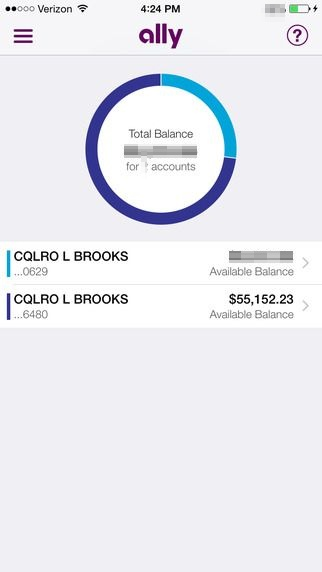
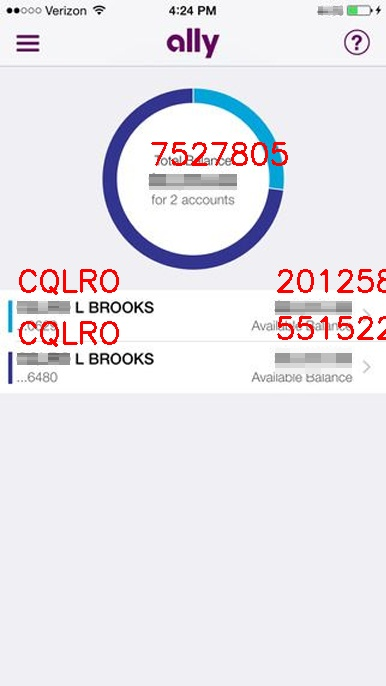
with image processing

diff --git a/detect_faces.py b/detect_faces.py
@@ -651,8 +651,33 @@ for img in range(len(images)):
 
 	# 		image[startY:endY, startX:endX] = face
 
-	rgb = cv2.cvtColor(image, cv2.COLOR_BGR2RGB)
-	results = pytesseract.image_to_data(rgb, output_type=Output.DICT)
+	image = cv2.resize(image, None, fx=1.2, fy=1.2,interpolation=cv2.INTER_CUBIC )
+	kernel = np.ones((1, 1), np.uint8)
+	image = cv2.dilate(image, kernel, iterations=1)
+	image = cv2.erode(image, kernel, iterations=1)
+	# gray = cv2.cvtColor(image, cv2.COLOR_BGR2RGB)
+	gray = cv2.cvtColor(image, cv2.COLOR_BGR2GRAY)
+	# gray = cv2.equalizeHist(gray)
+
+	cv2.threshold(cv2.GaussianBlur(gray, (5, 5), 0), 0, 255, cv2.THRESH_BINARY + cv2.THRESH_OTSU)[1]
+
+	cv2.threshold(cv2.bilateralFilter(gray, 5, 75, 75), 0, 255, cv2.THRESH_BINARY + cv2.THRESH_OTSU)[1]
+
+	cv2.threshold(cv2.medianBlur(gray, 3), 0, 255, cv2.THRESH_BINARY + cv2.THRESH_OTSU)[1]
+
+	cv2.adaptiveThreshold(cv2.GaussianBlur(gray, (5, 5), 0), 255, cv2.ADAPTIVE_THRESH_GAUSSIAN_C, cv2.THRESH_BINARY, 31, 2)
+
+	cv2.adaptiveThreshold(cv2.bilateralFilter(gray, 9, 75, 75), 255, cv2.ADAPTIVE_THRESH_GAUSSIAN_C, cv2.THRESH_BINARY, 31, 2)
+
+	cv2.adaptiveThreshold(cv2.medianBlur(gray, 3), 255, cv2.ADAPTIVE_THRESH_GAUSSIAN_C, cv2.THRESH_BINARY, 31, 2)
+
+	# cv2.imshow('image', image) 
+	  
+	#waits for user to press any key  
+	#(this is necessary to avoid Python kernel form crashing) 
+	# cv2.waitKey(0)
+
+	results = pytesseract.image_to_data(gray, output_type=Output.DICT)
 	# loop over each of the individual text localizations
 	for i in range(0, len(results["text"])):
 		# extract the bounding box coordinates of the text region from
@@ -680,8 +705,8 @@ for img in range(len(images)):
 					tex = anonymize_face_pixelate(tex)
 					image[y:y+h, x:x+w] = tex
 					# cv2.rectangle(image, (x, y), (x + w, y + h), (0, 0, 0), -1)
-					# cv2.putText(image, text, (x, y - 10), cv2.FONT_HERSHEY_SIMPLEX,
-					# 	1, (0, 0, 255), 2)
+					cv2.putText(image, text, (x, y - 10), cv2.FONT_HERSHEY_SIMPLEX,
+						1, (0, 0, 255), 2)
 
 
 
